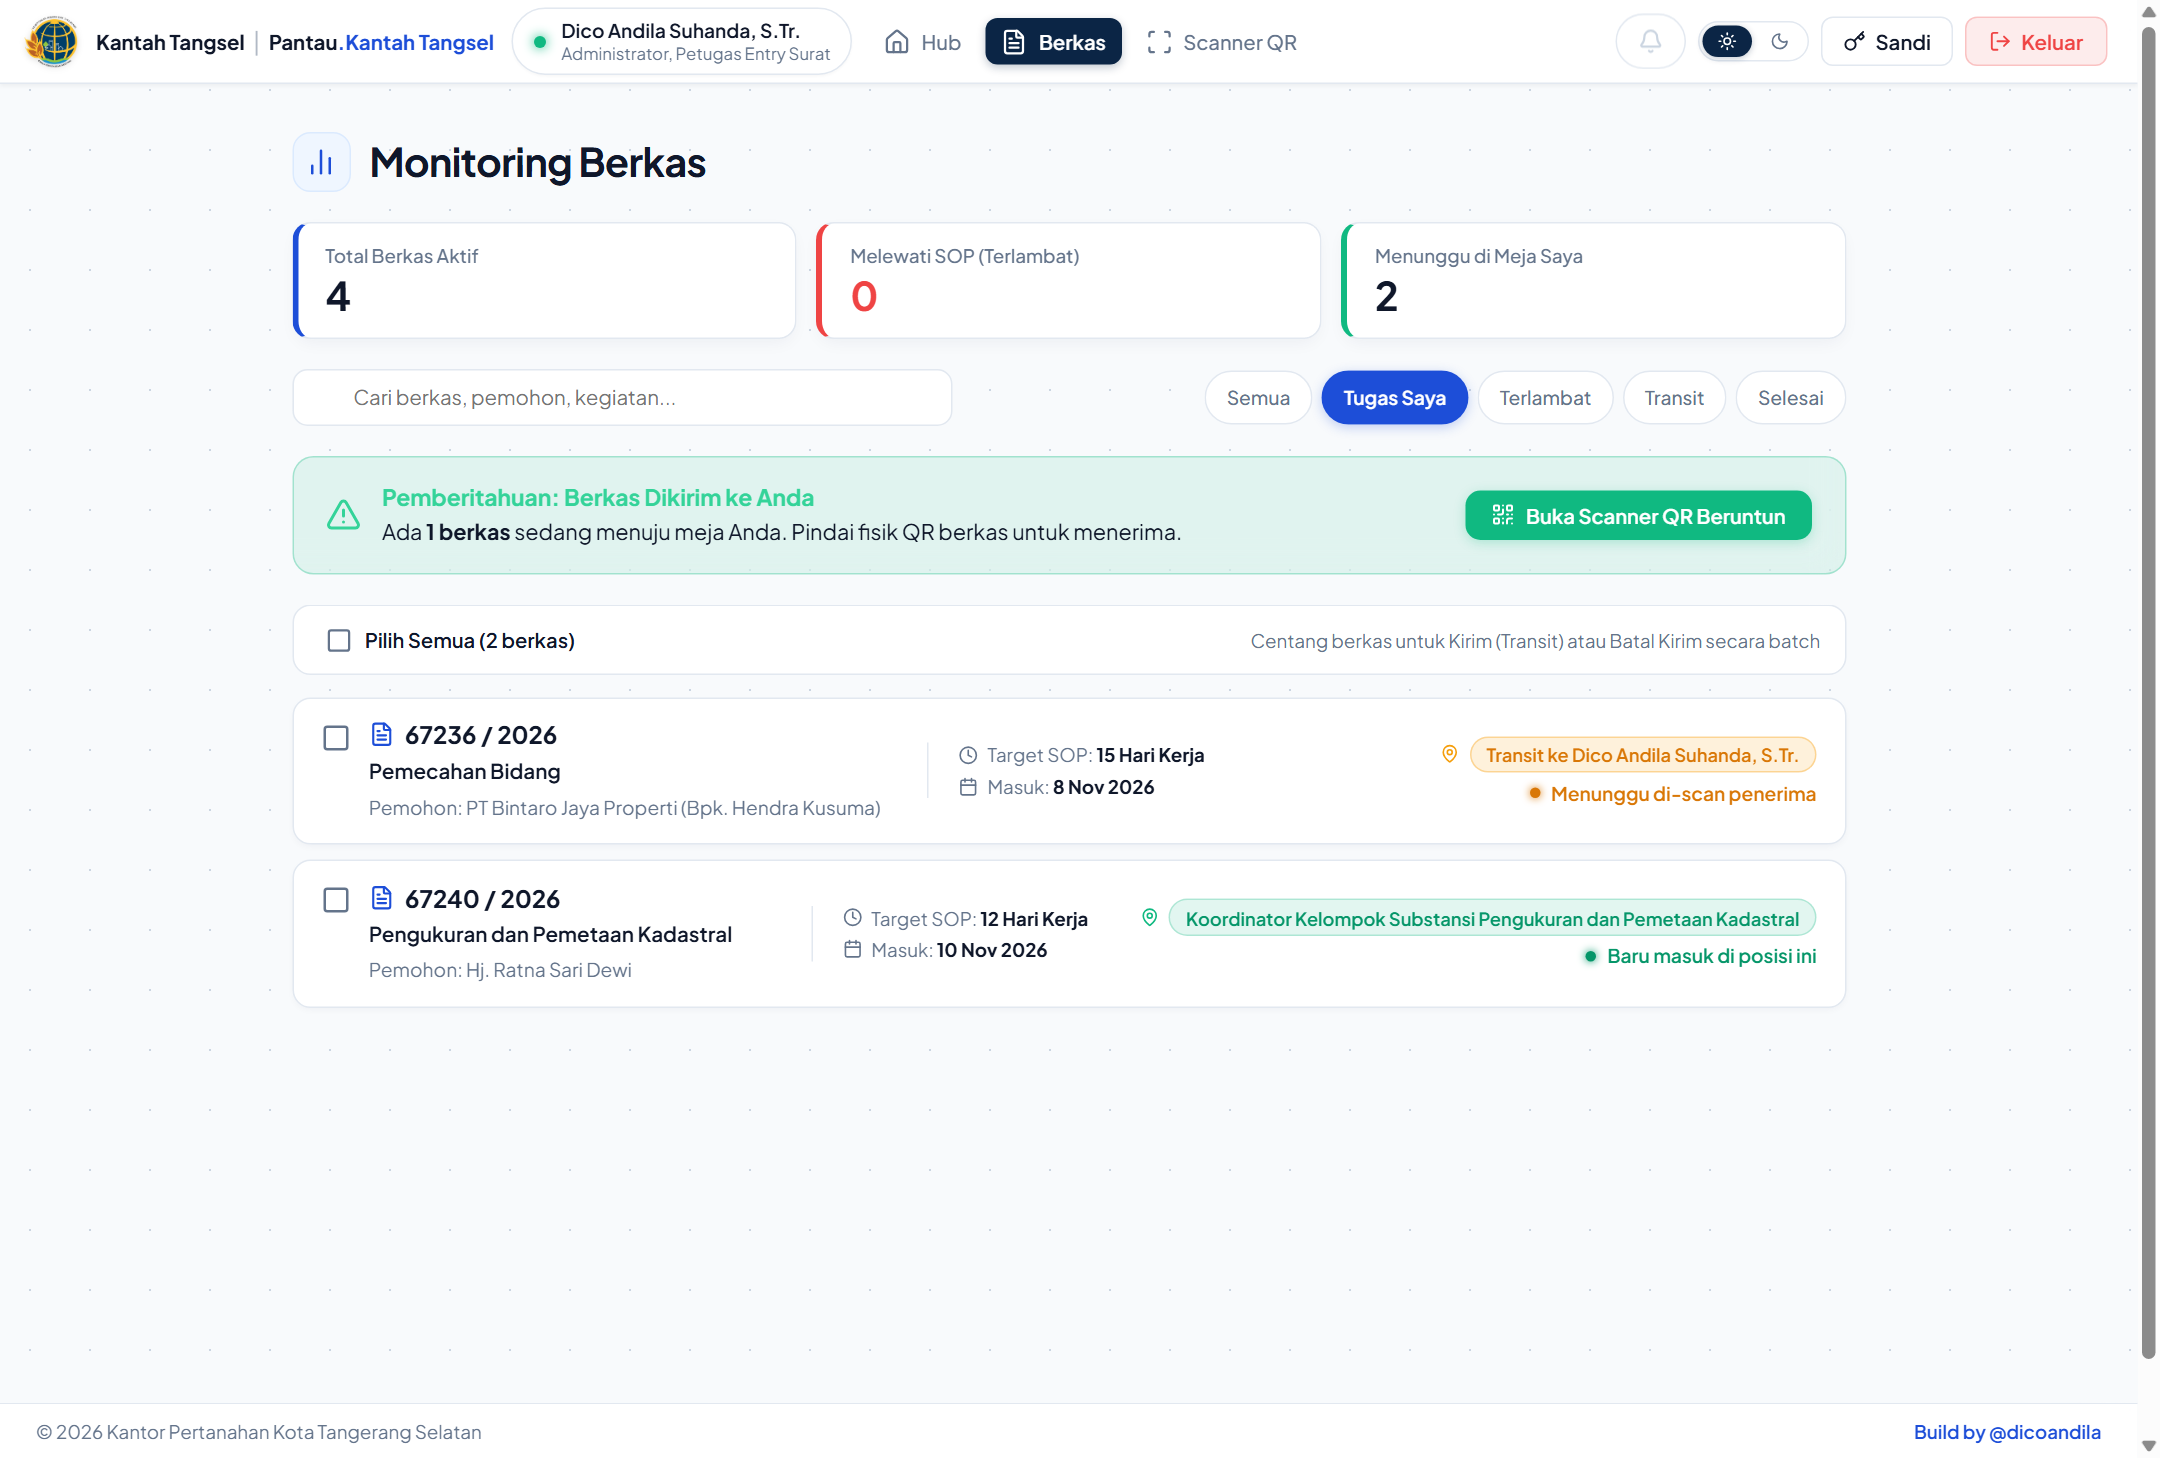
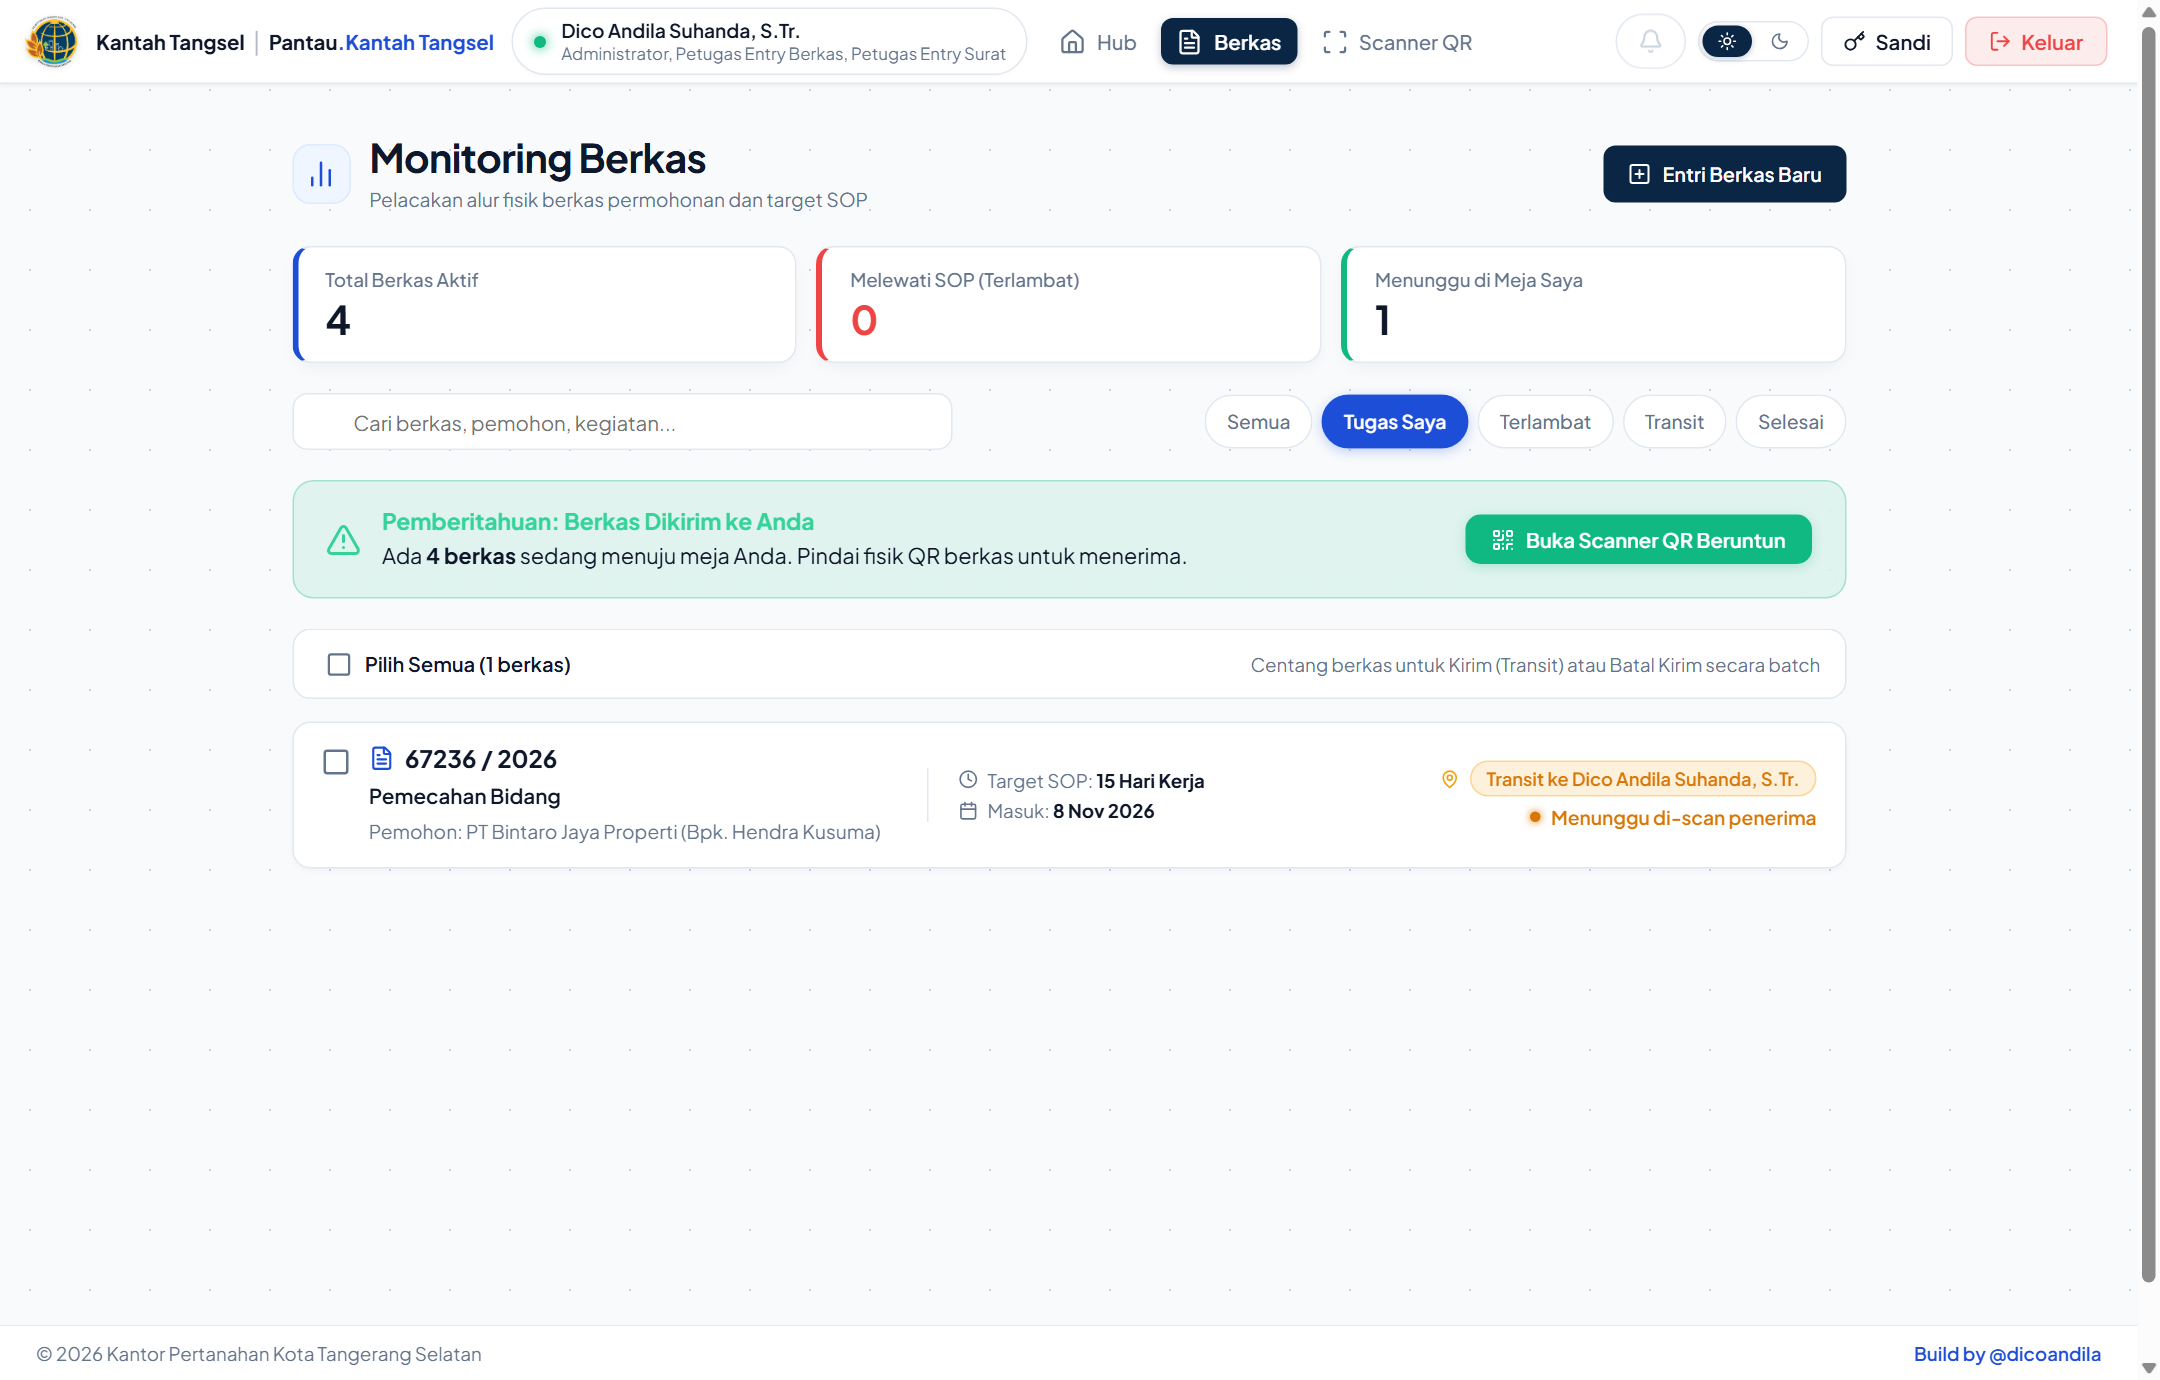
docs(manual): fix Entri Berkas Baru, Entri Surat Masuk, Detail Berkas, and Mobile Guard steps & screenshots to match actual UI

diff --git a/PETUNJUK_PENGGUNAAN_PANTAU_KANTAH.md b/PETUNJUK_PENGGUNAAN_PANTAU_KANTAH.md
@@ -40,6 +40,10 @@ Saat pertama kali membuka alamat aplikasi **`https://pantaukantahtangsel.web.id`
 5. **Lupa Sandi?**: Klik tautan **Lupa sandi?** untuk melihat petunjuk menghubungi Administrator guna melakukan *reset* kata sandi.
 6. Klik tombol **Masuk ke Sistem →** untuk melanjutkan ke Portal Utama.
 
+> [!NOTE]
+> **Keamanan Layar Perangkat Mobile (HP/Tablet):**  
+> Saat aplikasi dibuka melalui ponsel/tablet setelah login, sistem otomatis mengaktifkan **Watermark Identitas Petugas & Waktu WIB** di latar belakang, memblokir penyalinan/tekan-tahan (*long-press*), serta mengaktifkan **Privacy Blur Shield (*Layar Dilindungi*)** secara otomatis ketika Anda berpindah tab atau beralih ke aplikasi lain.
+
 ---
 
 ## 2. Portal Utama (Home Hub) & Navigasi Atas
@@ -77,16 +81,16 @@ Di pojok kanan atas bilah navigasi (Navbar) terdapat ikon **Lonceng Notifikasi (
 ![Lonceng Notifikasi & Tombol Hubungkan Telegram](docs/screenshots/02a_lonceng_telegram_belum_terhubung.png)
 
 1. **Indikator Angka Merah (*Badge Count*)**:
-   - Menampilkan jumlah berkas permohonan yang sedang dikirim (*Transit*) menuju meja Anda dan menunggu untuk di-scan terima.
+   - Menampilkan jumlah kiriman (**Berkas Permohonan maupun Surat Masuk**) yang sedang berstatus *Transit* menuju meja Anda dan menunggu untuk di-scan terima.
 2. **Nada Panggilan Otomatis (*Web Audio Chime* ~3,2 Detik)**:
-   - Saat Anda baru saja login (dan terdapat berkas kiriman yang menunggu) atau saat rekan kerja baru saja mengirimkan berkas ke meja Anda, aplikasi otomatis membunyikan **nada *chime* pengumuman 2 putaran** melalui speaker PC/HP Anda serta memunculkan *popup* pemberitahuan di bagian atas layar.
+   - Saat Anda baru saja login (dan terdapat kiriman berkas/surat yang menunggu) atau saat rekan kerja baru saja mengirimkan berkas/surat ke meja Anda, aplikasi otomatis membunyikan **nada *chime* pengumuman 2 putaran** melalui speaker PC/HP Anda serta memunculkan *popup* pemberitahuan di bagian atas layar.
    - Sistem melakukan pengecekan otomatis setiap **20 detik** di latar belakang tanpa perlu memuat ulang halaman.
-3. **Daftar Kiriman Berkas & Tombol Pintas**:
-   - Klik ikon **Lonceng (`🔔`)** untuk membuka daftar **Kiriman Berkas**.
-   - Setiap kartu menampilkan **Nomor Berkas**, **Waktu Kirim**, **Jenis Kegiatan**, **Nama Pemohon**, serta **Nama Petugas Pengirim** (kotak kuning).
-   - Tersedia 2 tombol tindakan langsung pada setiap berkas:
-     - **`Detail Berkas`**: Membuka halaman rincian berkas dan riwayat perjalanannya.
-     - **`Scan Terima`**: Langsung membuka halaman **Scanner QR** untuk memindai map fisik berkas yang tiba di meja Anda.
+3. **Daftar Kiriman Berkas & Surat beserta Tombol Pintas**:
+   - Klik ikon **Lonceng (`🔔`)** untuk membuka daftar **Kiriman Berkas & Surat**.
+   - Setiap kartu menampilkan **Nomor Berkas / Nomor Agenda Surat**, **Waktu Kirim**, **Jenis Kegiatan / Perihal**, **Nama Pemohon / Asal Surat**, serta **Nama Petugas Pengirim** (kotak kuning).
+   - Tersedia 2 tombol tindakan langsung pada setiap kartu kiriman:
+     - **`Detail Berkas` / `Detail Surat`**: Membuka halaman rincian berkas atau surat beserta riwayat perjalanannya.
+     - **`Scan Terima`**: Langsung membuka halaman **Scanner QR** (untuk berkas) atau **Scan QR Surat** (untuk surat) guna memindai dokumen fisik yang tiba di meja Anda.
 
 ---
 
@@ -207,20 +211,34 @@ Apabila Anda ingin menyerahkan banyak berkas sekaligus ke satu petugas tujuan ya
 
 ## 4. Entri Berkas Permohonan Baru & Cetak QR Code (`/entry`)
 
-Petugas Loket Pendaftaran atau Administrator dapat mendaftarkan berkas permohonan baru dengan mengeklik tombol khusus **Entri Berkas Baru** di kanan atas halaman Monitoring Berkas (identik dengan tombol *Entry Surat Baru* pada Monitoring Surat).
+Petugas Loket Pendaftaran (**Petugas Entry Berkas**, **Petugas Entry Berkas PHP**) maupun **Administrator** dapat mendaftarkan berkas permohonan baru dengan mengeklik tombol **`+ Entri Berkas Baru`** di pojok kanan atas halaman **Monitoring Berkas (`/berkas`)**.
 
 ![Form Entri Berkas Baru](docs/screenshots/04_entry_berkas.png)
 
 ### Cara Mendaftarkan Berkas Baru:
-1. **Nomor Berkas & Tahun Berkas**: Masukkan nomor berkas permohonan (contoh: `67255`) dan tahun berkas (`2026`). Sistem secara otomatis menerapkan **Kunci Anti-Duplikasi** agar kombinasi Nomor + Tahun yang sama tidak dapat diinput ganda.
-2. **Nama Pemohon**: Isi nama lengkap pemohon atau badan hukum.
-3. **Jenis Kegiatan**: Pilih salah satu dari **17 jenis layanan Survei & Pemetaan** (seperti *Pemecahan Bidang*, *Pengukuran Dan Pemetaan Kadastral*, *Pengembalian Batas*, *Permohonan SK Konfirmasi*, dll.). Sistem otomatis menetapkan target hari kerja SLA/SOP sesuai kegiatan yang dipilih.
-4. **Jenis Hak & Nomor Hak**: Pilih jenis hak (*Hak Milik*, *HGB*, *Hak Pakai*, *Hak Pengelolaan*, *Wakaf*, atau *Belum Terdaftar*) dan masukkan nomor haknya.
-5. **Kecamatan & Kelurahan**: Pilih Kecamatan di wilayah Kota Tangerang Selatan; daftar Kelurahan akan menyesuaikan secara otomatis.
-6. **Catatan Awal (Opsional)**: Tambahkan informasi tambahan bila diperlukan.
-7. Klik **Simpan & Buat QR Code**:
-   - Panel di sebelah kanan akan langsung menampilkan **Slip QR Code Berkas** berlogo ATR/BPN.
-   - Klik tombol **Cetak QR Code** untuk mencetak slip tempel berkas fisik.
+1. **Nomor Berkas (Maks. 6 digit angka)**:
+   - Masukkan nomor berkas permohonan berupa angka 1 hingga 6 digit (contoh: `67255`). Kolom ini hanya menerima karakter angka.
+   - Sistem secara otomatis menerapkan **Kunci Anti-Duplikasi** sehingga kombinasi *Nomor Berkas + Tahun* yang sama tidak dapat didaftarkan dua kali.
+2. **Tahun**:
+   - Terisi otomatis dan dikunci (*read-only*) ke tahun berjalan (misalnya `2026`).
+3. **Nama Kegiatan**:
+   - Pilih jenis layanan pada menu *dropdown* **Pilih Jenis Kegiatan**. Daftar pilihan menyesuaikan hak akses peran Anda:
+     - **Petugas Entry Berkas (Alur K1 — 5 Layanan)**: *Pengukuran dan Pemetaan Kadastral*, *Pemecahan Bidang*, *Penggabungan Bidang*, *Pemisahan Bidang*, dan *Penataan Batas*.
+     - **Petugas Entry Berkas PHP (Alur K2 — 9 Layanan)**: *Pelepasan Sebagian Hak*, *Wakaf dari Tanah Yang Sudah Bersertipikat*, *Pendaftaran Tanah Pertama Kali Pemberian Hak*, *Pendaftaran Tanah Pertama Kali Pengakuan/Penegasan Hak*, *Pendaftaran Tanah Pertama Kali Pemberian Hak (BMN)*, *Pendaftaran Tanah Pertama Kali Penegasan Tanah Wakaf*, *Sertipikat Pengganti Karena Hilang/Lelang Eksekusi*, *Sertipikat Pengganti Karena Rusak/Lama*, dan *Permohonan SK*.
+     - **Administrator**: Dapat memilih seluruh **14 jenis layanan** (K1 maupun K2). Target hari kerja SOP ditetapkan otomatis oleh sistem sesuai kegiatan yang dipilih.
+4. **Nama Pemohon**:
+   - Masukkan nama lengkap pemohon atau instansi/badan hukum (teks otomatis dikonversi menjadi huruf kapital).
+5. **Tahap Konfirmasi Pendaftaran**:
+   - Klik tombol **`Daftarkan & Generate QR Code`**.
+   - Layar akan menampilkan panel **Konfirmasi Pendaftaran** berisi ringkasan *Nomor Berkas / Tahun*, *Nama Kegiatan*, dan *Nama Pemohon* untuk diperiksa kembali.
+   - Klik **`Setuju`** untuk menyimpan data ke sistem (atau klik **`Tidak, Kembali`** bila masih ada isian yang ingin diubah).
+
+![Hasil QR Code Setelah Konfirmasi Pendaftaran Berkas](docs/screenshots/04a_hasil_qr_entry_berkas.png)
+
+6. **Cetak Slip QR Code**:
+   - Setelah dikonfirmasi, panel sebelah kanan (**`Berhasil Didaftarkan!`**) langsung menampilkan **QR Code Berkas berlogo ATR/BPN** lengkap dengan Nomor/Tahun Berkas, Nama Kegiatan, Nama Pemohon, serta alamat IP perangkat.
+   - Posisi awal berkas otomatis tercatat pada **`Loket Pendaftaran (Entry)`** (atau **`Petugas Entry Berkas PHP`** bila didaftarkan oleh petugas entry PHP).
+   - Klik tombol **`Cetak QR Code`** untuk mencetak slip QR guna ditempel pada map fisik berkas permohonan.
 
 ---
 
@@ -232,15 +250,15 @@ Mengklik salah satu baris berkas pada tabel Monitoring akan membuka halaman **De
 
 ### Fitur-fitur pada Halaman Detail Berkas:
 1. **Informasi Lengkap & Indikator SLA/SOP**:
-   - Menampilkan Nomor Berkas, Pemohon, Jenis Kegiatan, Lokasi Kecamatan/Kelurahan, Posisi Tahapan Saat Ini, serta jumlah **Hari Kerja Berjalan** dibandingkan batas target SOP (hijau = aman, kuning = mendekati batas, merah = melewati SOP).
+   - Menampilkan Nomor Berkas / Tahun, Nama Kegiatan, Nama Pemohon, Estimasi **Target Selesai (SOP)**, Posisi Berkas Saat Ini, serta jumlah **Hari Kerja Berjalan** dibandingkan batas target SOP (hijau = aman, kuning = mendekati batas, merah = melewati SOP).
 2. **Kirim Berkas (Transit Antar Petugas)**:
    - Klik tombol **Kirim Berkas (Transit)**, pilih nama petugas tujuan melalui kolom pencarian, lalu konfirmasi.
-   - Petugas tujuan akan langsung menerima **Notifikasi Telegram Otomatis** di ponselnya bahwa berkas sedang dikirim menuju mejanya.
-3. **Hentikan Sementara / Lanjutkan SOP (Khusus Koordinator, Kasi SP, & Admin)**:
-   - Jika berkas terkendala kelengkapan dokumen dari pemohon atau kendala eksternal lapangan, klik tombol **Hentikan SOP (Pause)**. Selama berkas dijeda, arloji perhitungan hari kerja SLA akan berhenti dan baru dihitung kembali saat tombol **Lanjutkan SOP (Resume)** ditekan.
-4. **Catatan Berkas & Lembar Disposisi Digital**:
-   - **Catatan Berkas**: Petugas dapat memperbarui catatan teknis berkas; sistem otomatis membubuhkan jejak nama petugas, jabatan, dan waktu perubahan.
-   - **Disposisi**: Pejabat/Koordinator/Petugas dapat menambahkan instruksi disposisi beruntun yang tersimpan rapi lengkap dengan stempel waktu.
+   - Petugas tujuan akan langsung menerima **Notifikasi Lonceng Suara** dan **Notifikasi Telegram Otomatis** di ponselnya bahwa berkas sedang dikirim menuju mejanya.
+3. **Berhentikan Sementara / Lanjutkan SOP (Khusus Administrator)**:
+   - Jika berkas terkendala kelengkapan dokumen dari pemohon atau kendala eksternal lapangan, klik tombol **Berhentikan (Pause) SOP**. Selama berkas dijeda, argometer perhitungan hari kerja SLA akan berhenti dan baru dihitung kembali saat tombol **Lanjutkan (Resume) SOP** ditekan.
+4. **Catatan Petugas & Lembar Disposisi Pimpinan**:
+   - **Catatan Petugas**: Petugas dapat memperbarui catatan teknis berkas melalui tombol **`Tambah Catatan`**; sistem otomatis membubuhkan jejak nama petugas, jabatan, dan waktu perubahan.
+   - **Disposisi Pimpinan**: Pimpinan/Koordinator dapat menambahkan instruksi disposisi beruntun lengkap dengan stempel waktu, dan petugas pelaksana dapat mengklik tombol **`Tandai Sudah Dilaksanakan`** setelah instruksi diselesaikan.
 5. **Riwayat Perjalanan Berkas (Timeline)**:
    - Menampilkan urutan kronologis perpindahan berkas dari meja ke meja, lengkap dengan nama petugas pemindai dan durasi waktu di setiap tahapan.
 6. **Slip QR Code & Cetak Ulang**:
@@ -357,18 +375,20 @@ Saat fisik surat tiba di meja Anda (atau saat Anda mengklik tombol **`Scan Terim
 
 ## 8. Entri Surat Masuk & Unggah Lampiran PDF (`/surat/entry`)
 
-Petugas Entry Surat dan Administrator dapat meregistrasi surat masuk baru melalui halaman **Entri Surat Masuk**.
+Petugas Entry Surat dan Administrator dapat meregistrasi surat masuk baru melalui tombol **`Entry Surat Baru`** pada halaman Monitoring Persuratan (`/surat`). **Nomor Agenda (5 digit angka)** akan dibuatkan otomatis oleh sistem saat surat disimpan.
 
 ![Form Entri Surat Masuk](docs/screenshots/08_entry_surat.png)
 
 ### Langkah-langkah Entri Surat Masuk:
-1. **Nomor Agenda & Nomor Surat**: Masukkan nomor agenda internal dan nomor surat resmi yang tertera pada naskah surat.
-2. **Tanggal Surat & Tanggal Terima**: Pilih tanggal surat diterbitkan dan tanggal surat diterima di Kantor Pertanahan.
-3. **Asal Surat & Perihal**: Ketik instansi/pihak pengirim surat beserta ringkasan perihal surat.
-4. **Unggah File PDF Surat (Opsional, Maks. 10 MB)**:
-   - Pilih file hasil pemindaian surat berformat `.pdf`.
-   - Sistem akan menampilkan **Pratinjau Halaman Pertama PDF** secara otomatis di layar sebelum Anda menyimpan data.
-5. Klik **Simpan & Buat QR Surat** untuk menyimpan data sekaligus menampilkan label QR Code Agenda Surat yang siap dicetak.
+1. **Asal Surat \***: Ketik nama instansi atau pihak pengirim surat (contoh: *Polres Tangerang Selatan* atau *Kementerian ATR/BPN Pusat*).
+2. **Nomor Surat \***: Masukkan nomor surat resmi yang tertera pada naskah surat (contoh: `B/412/XI/2026/Polres-Tangsel`).
+3. **Tanggal Diterima \***: Pilih tanggal surat diterima di Kantor Pertanahan.
+4. **Perihal \***: Tuliskan ringkasan isi/perihal surat masuk.
+5. **Upload File PDF Surat (Opsional, Maks. 10 MB)**:
+   - Pilih file hasil pemindaian surat berformat **`.pdf`**.
+6. Klik **`Simpan Surat`**:
+   - Sistem akan menampilkan notifikasi berisi **Nomor Agenda otomatis (5 digit)** lalu mengarahkan Anda ke halaman **Monitoring Surat (`/surat`)**.
+   - Pada tabel surat tersebut, klik ikon **QR Code (`🏁`)** atau buka **Detail Surat** untuk mencetak slip QR Agenda Surat ke lembar disposisi fisik.
 
 ---
 
